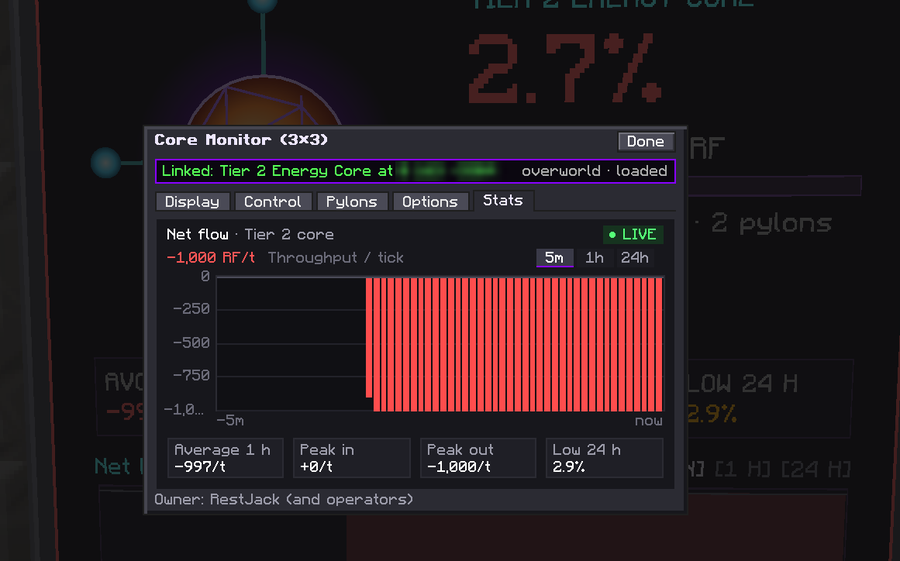
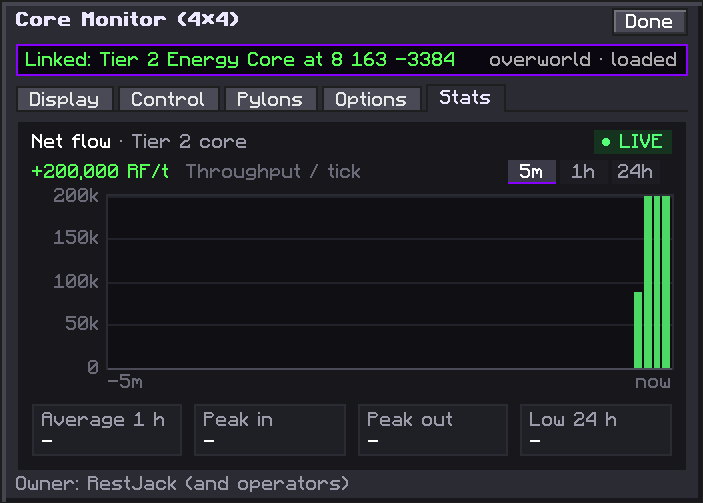
README: fresh screenshots (4x4 monitor, close-up, all settings tabs, core screen, guides)

diff --git a/README.md b/README.md
@@ -8,19 +8,19 @@ Current build: **`3.1.4-unofficial-1.0`** (jar `Draconic-Evolution-26.1.2-3.1.4-
 
 ## A look at it
 
-| Core Monitor (3×3, with the live core picture) | Energy core screen |
+| Core Monitor, 4×4 (core picture, stat cards, graph) | Core Monitor close-up |
 | --- | --- |
-| ![Core Monitor 3x3 screen with core picture, stats and graph](.github/readme/core-monitor-3x3.png) | ![Energy core screen with stored, in, out, net and time to empty](.github/readme/core-screen.png) |
+| ![Core Monitor 4x4 screen with core picture, stats and graph](.github/readme/core-monitor-4x4.png) | ![Core Monitor close-up: animated core picture and numbers](.github/readme/core-monitor-core-picture.png) |
 
-| Core Monitor settings: Control | Core Monitor settings: Stats |
+| Monitor settings: Control (core power, next tier) | Monitor settings: Stats |
 | --- | --- |
 | ![Control tab: core power and next tier preview](.github/readme/monitor-settings-control.png) | ![Stats tab: net flow chart and averages](.github/readme/monitor-settings-stats.png) |
 
-| In-game guide (Patchouli; also GuideME, hold G) |
-| --- |
-| ![Guide book page about Draconium](.github/readme/guide-book.png) |
+| Energy core screen (In / Out / Net, rate graph) | In-game guide (Patchouli book; same guide in GuideME, hold G) |
+| --- | --- |
+| ![Energy core screen with stored, in, out, net, time to full and the rate graph](.github/readme/core-screen.png) | ![Draconic Evolution Guide book, first page](.github/readme/guide-book.png) |
 
-More: [Display tab](.github/readme/monitor-settings-display.png) · [Pylons tab](.github/readme/monitor-settings-pylons.png) · [Options tab](.github/readme/monitor-settings-options.png) · [core picture close-up](.github/readme/core-monitor-core-picture.png)
+More: [Display tab](.github/readme/monitor-settings-display.png) · [Pylons tab](.github/readme/monitor-settings-pylons.png) · [Options tab](.github/readme/monitor-settings-options.png) · [monitor and core, angled](.github/readme/core-monitor-angle.png) · [GuideME page for the Core Monitor](.github/readme/guideme-core-monitor.png)
 
 ## What this branch adds
 
